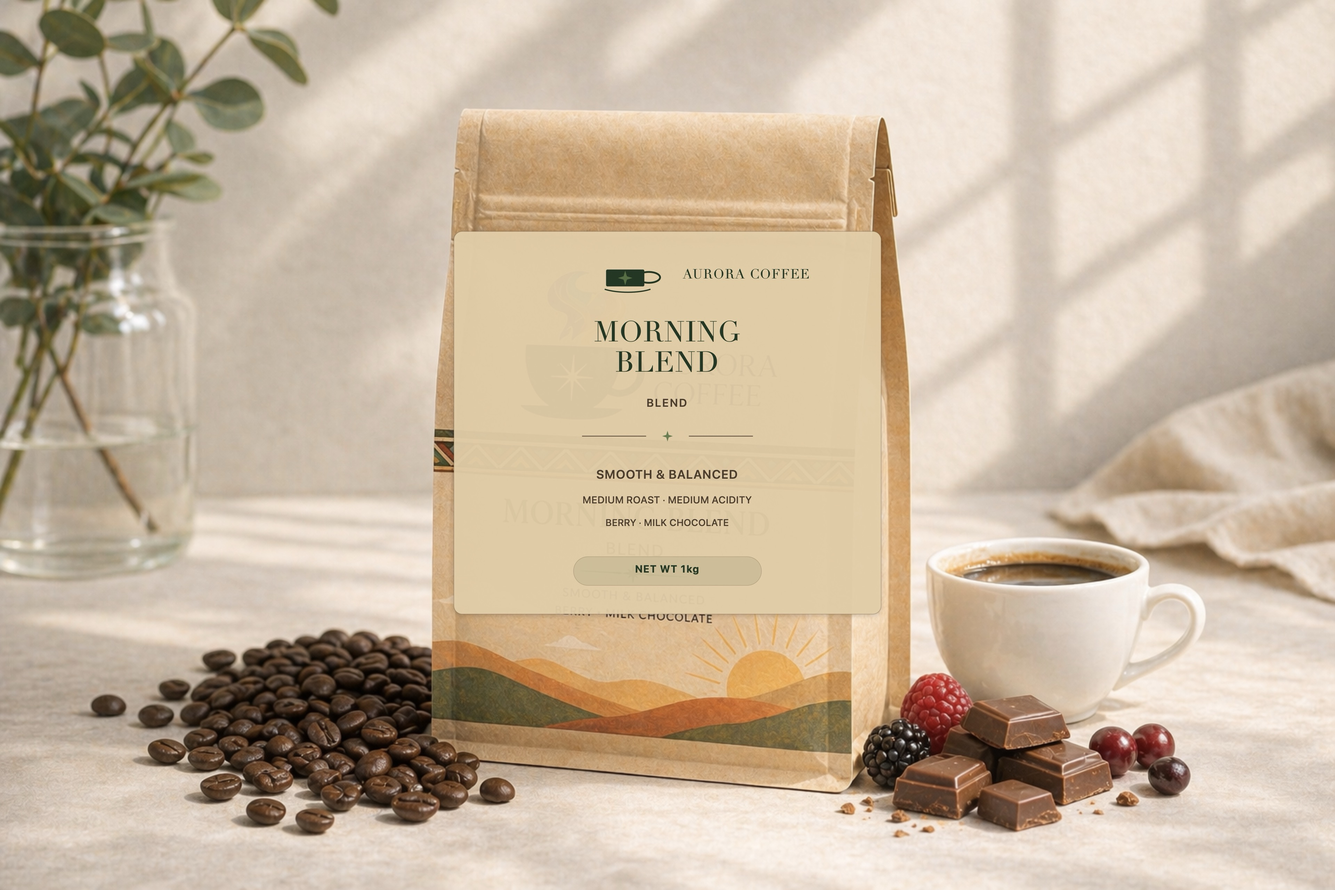
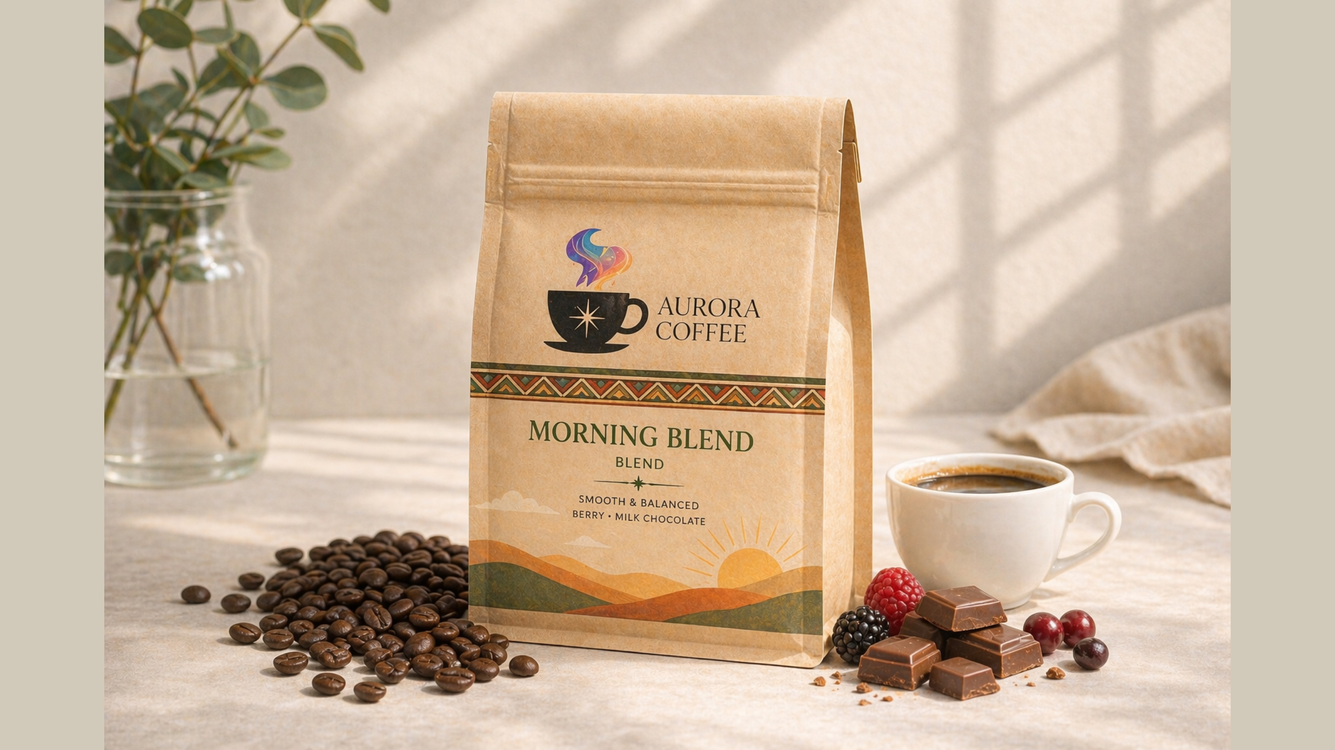
uncrop the beans

diff --git a/Frontend/src/styles/34-product-cards.css b/Frontend/src/styles/34-product-cards.css
@@ -64,14 +64,14 @@
 .aurora-product-media-image {
   width: 100%;
   height: 100%;
-  object-fit: cover;
+  object-fit: contain;
   filter: saturate(0.96) contrast(1.04);
-  transform: scale(1.01);
+  transform: none;
   transition: transform 260ms var(--anim--hover-ease), filter 260ms ease;
 }
 
 .aurora-product-card:hover .aurora-product-media-image {
-  transform: scale(1.045);
+  transform: none;
   filter: saturate(1.04) contrast(1.05);
 }
 
